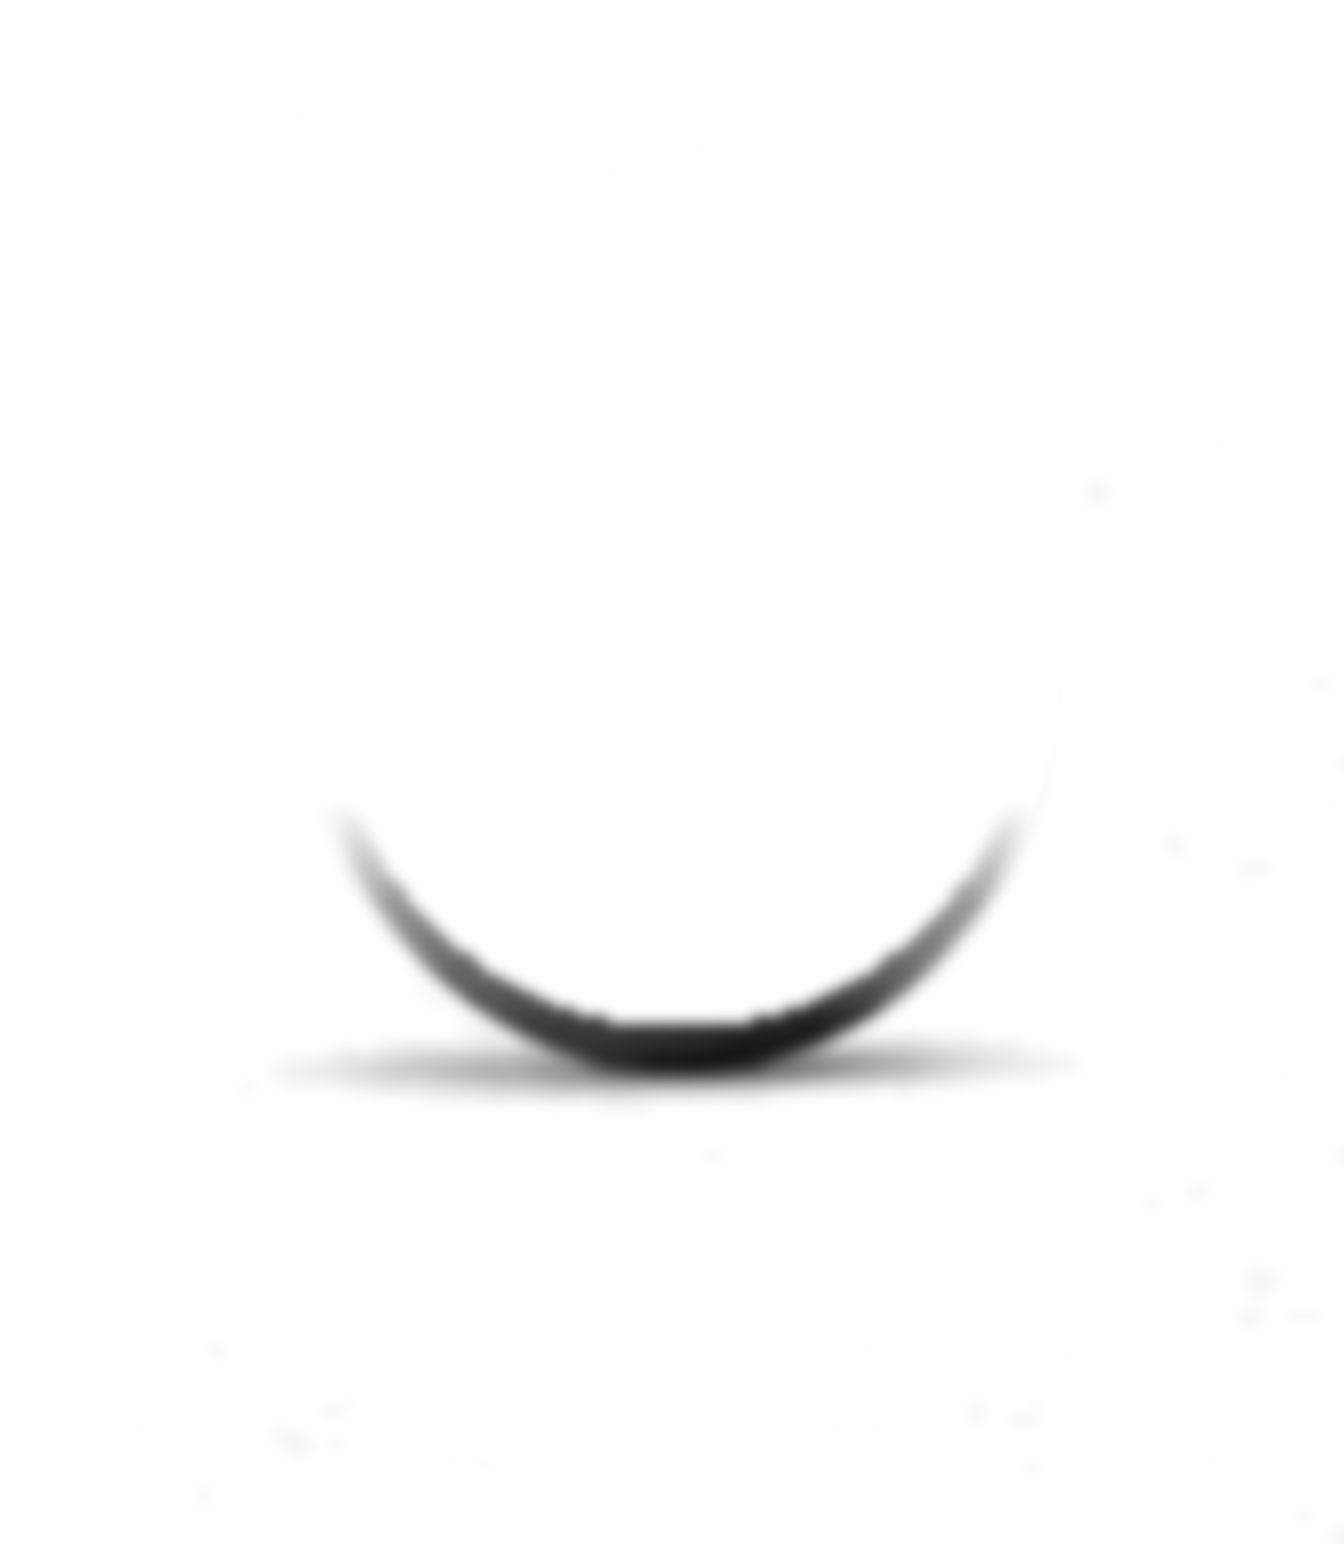
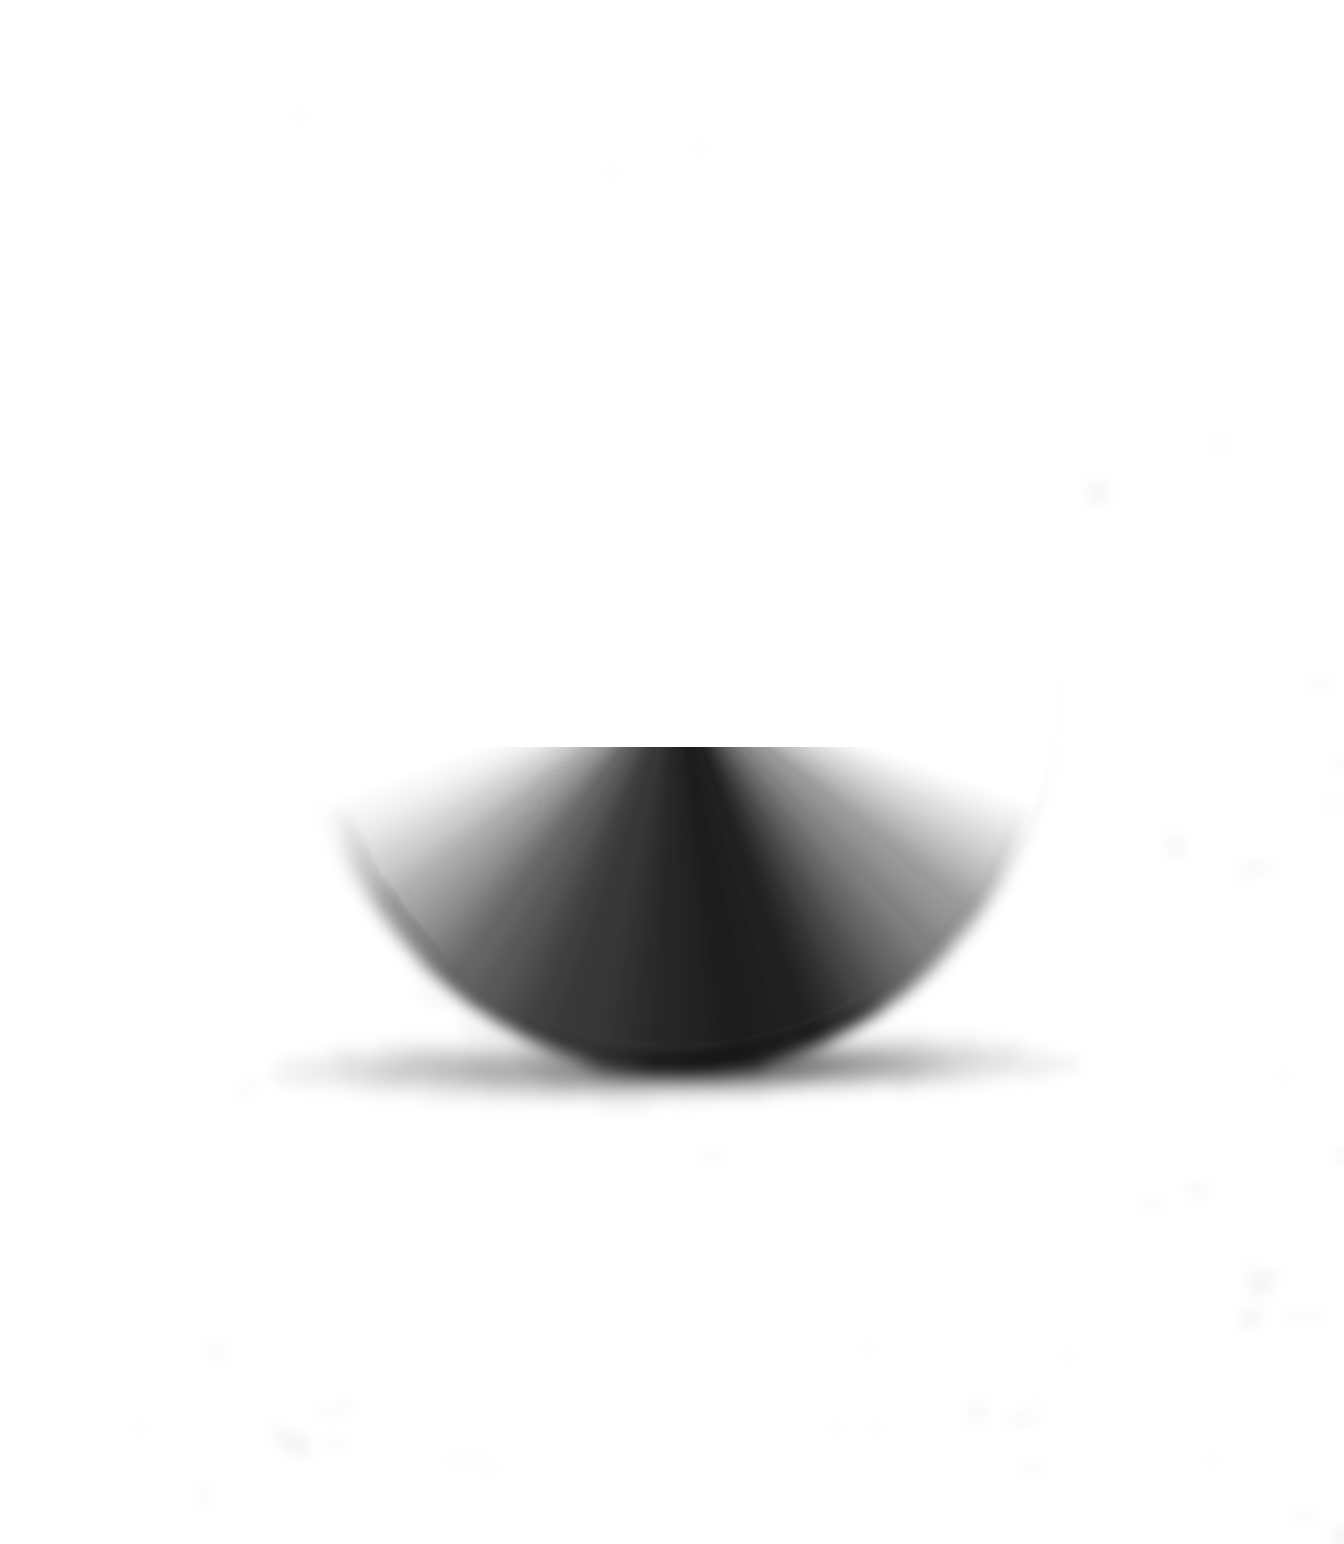
Click 5: the Modulor is built with copper's landings; the ruler is gone
Three lobes and 110 px after the first landing (1 : 250), five and 150 px after the second (1 : 500),
all eight and 240 px as the counter runs 500 -> 1000. Copper's swell passes it; it does not follow.
The label sits 24 px right of the spine at the highest mark. At click 10 it drops into the evidence field
and becomes 11,002 kt CO2e. The ground under the spine stretches into Act 3's evidence line.
Horizontal rail, end bars and graduations removed. Shadow filled under the sphere so a squash shows no paper.
Reset tested with keypresses: three runs, after R and after a refresh.

Changed region(s): [[0.2812, 0.4663, 0.75, 0.6839]]

diff --git a/act1/act1.html b/act1/act1.html
@@ -80,7 +80,7 @@
   <svg id="over" width="1920" height="1080" style="position:absolute;left:0;top:0;z-index:1;mix-blend-mode:multiply">
     <rect id="raciShadow" x="1000" y="120" width="560" height="660" fill="#0F0F11" opacity="0" filter="url(#soft2)"/>
     <defs><filter id="soft2" x="-20%" y="-20%" width="140%" height="140%"><feGaussianBlur stdDeviation="40"/></filter></defs>
-    <g id="modulor" opacity="0"></g><g id="dim" opacity="0" stroke="#b8783e" stroke-width="1.4" style="filter:drop-shadow(0 0 3px rgba(207,145,77,.35))"><line id="dimLine" y1="0" y2="0"/><line id="dimT1"/><line id="dimT2"/><g id="ticks"></g><g id="cursor"><circle r="4.5" fill="none"/><line x1="-13" y1="0" x2="13" y2="0"/></g></g>
+    <g id="modulor" opacity="0"></g><g id="dim" opacity="0" stroke="#b8783e" stroke-width="1.4" style="filter:drop-shadow(0 0 3px rgba(207,145,77,.35))"><line id="dimLine" y1="0" y2="0"/><g id="ticks"></g><g id="cursor"><circle r="4.5" fill="none"/><line x1="-13" y1="0" x2="13" y2="0"/></g></g>
     <line id="dropLine" x1="1395" x2="1395" stroke="#365F7C" stroke-width="1" stroke-dasharray="6 6" opacity="0"/>
   </svg>
   <div class="scale" id="s250">1 : 250</div><div class="scale" id="s500">1 : 500</div><div class="scale" id="s1000">1 : 1000</div>
@@ -346,34 +346,41 @@ const squash = (t, t0) => {                        // anticipation, landing squa
 // Click 5: copper takes the centre of the left half, then three jumps; it grows only after each landing
 const GROUND_C = 670, CX5 = 530, J = [1.6, 3.7, 6.4], H5 = [35, 50, 65], R5 = [38, 48, 62, 80], R_INF = 150;   // ends about 4 times its first size
 const T_COUNT = J[2] + 1.0, T_INF = T_COUNT + 1.25 + 0.5;   // the counter runs after the last landing; it locks, holds half a second, then the swell
-const STEPS = [250, 251, 253, 258, 270, 310, 365, 420, 500, 590, 680, 760, 850, 930, 1000];
+const STEPS = [500, 501, 503, 508, 520, 560, 615, 670, 740, 810, 870, 920, 960, 985, 1000];   // from 1 : 500, where the second landing left it
 const STEP_T = [0, 0.12, 0.23, 0.35, 0.47, 0.57, 0.66, 0.74, 0.8, 0.9, 0.98, 1.05, 1.11, 1.16, 1.25];   // readable, then accelerating, then runaway
-// The Modulor: a human-proportion scale on its own spine, standing on copper's ground line. Both series
-// (red 63 ... 1829, blue 78 ... 1397) grow by the golden ratio from the ground. The system is always a little taller
-// than copper, until the swell: then copper outgrows the human measure that was supposed to contain it.
+// The Modulor: a human-proportion scale on its own spine, standing on copper's ground. Both series
+// (red 63 ... 1829, blue 78 ... 1397) grow by the golden ratio from the ground; the numbers set the proportions and are never shown.
+// It is built with copper's landings and always stays a little taller than copper: three lobes and 110 px after the first,
+// five lobes and 150 px after the second, all eight and 240 px as the counter runs. Then copper swells past it; it does not follow.
 const MOD_R = [0, 63, 102, 165, 267, 432, 698, 1130, 1829], MOD_B = [78, 126, 204, 330, 534, 863, 1397];
 const SPX = 730;                                          // 50 px clear of copper's final edge; far short of the axis
+function modState(t) {                                    // V: the highest Modulor value built so far; H: its height on screen
+  const r1 = E2(t, J[0] + 1.0, 0.9), s2 = E2(t, J[1] + 1.0, 0.7), c = t - T_COUNT, p = c < 0 ? 0 : clamp(c / 1.25), pe = p * p * (3 - 2 * p);
+  if (s2 <= 0 && pe <= 0) return { V: 165 * r1, H: 110 * r1, pe };
+  const L = Math.log, V = Math.exp(L(165) + s2 * (L(432) - L(165)) + pe * (L(1829) - L(432)));
+  return { V, H: 110 + 40 * s2 + 90 * pe, pe };
+}
 function modulor(t, y) {
-  const c = t - T_COUNT, p = c < 0 ? 0 : clamp(c / 1.25), pe = p * p * (3 - 2 * p);
-  const H = 110 + 40 * E2(t, J[1] + 1.0, 0.5) + 90 * pe;  // height of the 1829 mark: 110, then 150, then 240 as the counter races
-  const f = H / 1829, Y = (v) => y - v * f;
+  const { V, H } = modState(t);
+  if (V <= 0) { $("modulor").innerHTML = ""; return y; }
+  const f = H / V, Y = (v) => y - Math.min(v, V) * f;
   let air = 0; J.forEach((j) => { const u = (t - j - 0.25) / 0.6; if (u > 0 && u < 1) air = Math.sin(Math.PI * u); });
-  const breathe = 1 + 0.14 * air;                         // the lobes widen while copper is in the air, and settle when it lands
-  const sub = E2(t, J[1] + 1.0, 0.6);                     // the second series and the long arcs come with the second landing
-  let h = `<line x1="${SPX}" x2="${SPX}" y1="${y}" y2="${y - (H + 12) * E2(t, J[0] + 1.0, 0.9)}" stroke="#8a5a30" stroke-width="1.3"/>`;   // the spine rises with its lobes
-  for (let k = 1; k < MOD_R.length; k++) {                // lobes: gold on copper's side, a faint blue-grey ghost on the other
-    const a = Y(MOD_R[k - 1]), b = Y(MOD_R[k]), w = (a - b) * 0.3 * breathe, m = (a + b) / 2, op = E2(t, J[0] + 1.0 + k * 0.08, 0.3);
-    h += `<path d="M${SPX} ${a} Q ${SPX - 2 * w} ${m} ${SPX} ${b} Z" fill="#C58A4B" fill-opacity="${0.3 * op}" stroke="#b8783e" stroke-width="0.8" stroke-opacity="${0.8 * op}"/>`;
-    h += `<path d="M${SPX} ${a} Q ${SPX + 2 * w} ${m} ${SPX} ${b} Z" fill="#6f8594" fill-opacity="${0.12 * op}" stroke="#6f8594" stroke-width="0.6" stroke-opacity="${0.4 * op}"/>`;
-    h += `<line x1="${SPX - 6 - (k % 2) * 6}" x2="${SPX}" y1="${b}" y2="${b}" stroke="#8a5a30" stroke-width="${k % 2 ? 1.2 : 0.8}" opacity="${op}"/>`;
+  const breathe = 1 + 0.12 * air;                         // the lobes widen a little while copper is in the air, and settle when it lands
+  let h = `<line x1="${SPX}" x2="${SPX}" y1="${y}" y2="${y - H - 12 * Math.min(1, V / 165)}" stroke="#8a5a30" stroke-width="1.3"/>`;
+  for (let k = 1; k < MOD_R.length && MOD_R[k - 1] < V; k++) {   // lobes grow upward as they are built: gold on copper's side, a faint blue-grey ghost on the other
+    const a = Y(MOD_R[k - 1]), b = Y(MOD_R[k]), w = (a - b) * 0.3 * breathe, m = (a + b) / 2;
+    h += `<path d="M${SPX} ${a} Q ${SPX - 2 * w} ${m} ${SPX} ${b} Z" fill="#C58A4B" fill-opacity="0.3" stroke="#b8783e" stroke-width="0.8" stroke-opacity="0.8"/>`;
+    h += `<path d="M${SPX} ${a} Q ${SPX + 2 * w} ${m} ${SPX} ${b} Z" fill="#6f8594" fill-opacity="0.12" stroke="#6f8594" stroke-width="0.6" stroke-opacity="0.4"/>`;
+    if (MOD_R[k] <= V) h += `<line x1="${SPX - 6 - (k % 2) * 6}" x2="${SPX}" y1="${b}" y2="${b}" stroke="#8a5a30" stroke-width="${k % 2 ? 1.2 : 0.8}"/>`;
   }
-  MOD_B.forEach((v) => { h += `<line x1="${SPX}" x2="${SPX + 8}" y1="${Y(v)}" y2="${Y(v)}" stroke="#6f8594" stroke-width="0.8" opacity="${0.7 * sub}"/>`; });
-  [[3, -1], [4, 1], [5, -1]].forEach(([k, side]) => {      // three long arcs, alternating sides
+  MOD_B.forEach((v) => { if (v <= V) h += `<line x1="${SPX}" x2="${SPX + 8}" y1="${Y(v)}" y2="${Y(v)}" stroke="#6f8594" stroke-width="0.8" opacity="0.7"/>`; });
+  [[3, -1], [4, 1], [5, -1]].forEach(([k, side]) => {      // three long arcs, alternating sides, once both their ends exist
+    if (MOD_R[k + 2] > V) return;
     const a = Y(MOD_R[k]), b = Y(MOD_R[k + 2]);
-    h += `<path d="M${SPX} ${a} Q ${SPX + side * (a - b) * 0.45 * breathe} ${(a + b) / 2} ${SPX} ${b}" fill="none" stroke="${side < 0 ? "#b8783e" : "#6f8594"}" stroke-width="0.8" opacity="${0.5 * sub}"/>`; });
+    h += `<path d="M${SPX} ${a} Q ${SPX + side * (a - b) * 0.45 * breathe} ${(a + b) / 2} ${SPX} ${b}" fill="none" stroke="${side < 0 ? "#b8783e" : "#6f8594"}" stroke-width="0.8" opacity="0.5"/>`; });
   $("modulor").innerHTML = h;
-  $("modulor").setAttribute("opacity", E2(t, J[0] + 1.0, 0.5));
-  return y - H * pe;                                      // where the cursor sits: the ground, then climbing with the counter
+  $("modulor").setAttribute("opacity", 1);
+  return y - H;                                           // the cursor and the label sit at the highest mark built so far
 }
 function click5(t) {
   const on = t >= 0;
@@ -387,27 +394,26 @@ function click5(t) {
   J.forEach((j, i) => { dy += jumpY(t, j, H5[i]); const q = squash(t, j); if (t >= j && t < j + 1.25) sq = q; });
   if (t >= T_INF - 0.25 && t < T_INF) sq = [1.02, 0.97];                                        // it gathers itself
   place(copper, x, (mv < 1 ? HOME_C[1] + (GROUND_C - R5[0] - HOME_C[1]) * mv : GROUND_C - r) + dy, r, sq[0], sq[1]);
-  // the measurement rail: from copper's edge to the axis, never across it
-  const y = GROUND_C + 26, edge = x + Math.min(r, R5[3]) , show = E2(t, J[0] + 1.0, 0.5);
-  const railL = AXX - (AXX - edge) * E2(t, J[0] + 1.0, 0.6);
-  $("dimLine").setAttribute("x1", railL); $("dimLine").setAttribute("x2", AXX - 3); $("dimLine").setAttribute("y1", y); $("dimLine").setAttribute("y2", y);
-  for (const [id, X] of [["dimT1", AXX - 3], ["dimT2", railL]]) { const e = $(id); e.setAttribute("x1", X); e.setAttribute("x2", X); e.setAttribute("y1", y - 14); e.setAttribute("y2", y + 14); }
+  // the ground under the spine; the Modulor above it; one label to its right, at the highest mark
+  const y = GROUND_C + 26, show = E2(t, J[0] + 1.0, 0.5);
+  $("dimLine").setAttribute("x1", SPX - 30); $("dimLine").setAttribute("x2", SPX + 30); $("dimLine").setAttribute("y1", y); $("dimLine").setAttribute("y2", y);
   $("dim").setAttribute("opacity", 0.9 * show);
   $("ticks").innerHTML = "";
-  const pos = modulor(t, y);
-  // the counter: 1 : 250 after the first landing; from the second landing it runs away to 1 : 1000, then holds, immaculate
+  const top = modulor(t, y);
+  // the label: 1 : 250 after the first landing, 1 : 500 after the second; from the third it runs away to 1 : 1000, then holds, immaculate
   const c = t - T_COUNT;
-  let n = 250; STEP_T.forEach((st, k) => { if (c >= st) n = STEPS[k]; });
+  let n = t < J[1] + 1.2 ? 250 : 500; if (c >= 0) STEP_T.forEach((st, k) => { if (c >= st) n = STEPS[k]; });
   const lab = $("s1000"); lab.textContent = `1 : ${n}`;
-  lab.style.opacity = E2(t, J[0] + 1.2, 0.5);
+  lab.style.opacity = E2(t, J[0] + 1.4, 0.5);
   const lock = T_COUNT + 1.25;
   const g = 0.8 + 0.18 * clamp(c / 1.25) + 0.12 * (E2(t, lock, 0.15) - E2(t, lock + 0.4, 0.4)) + 0.1 * (E2(t, T_INF, 0.3) - E2(t, T_INF + 0.9, 0.8));
   lab.style.textShadow = `0 1px 0 rgba(57,35,22,.28), 0 0 3px rgba(255,214,137,${(0.75 * g).toFixed(3)}), 0 0 9px rgba(196,125,55,${(0.42 * g).toFixed(3)}), 0 0 18px rgba(177,100,35,${(0.2 * g).toFixed(3)})`;
-  lab.style.left = CX5 + 90 + "px"; lab.style.top = y + 44 + "px";
-  // the cursor climbs the spine with the counter, then presses against the top mark until the swell is over
+  lab.style.left = LAB_X + "px"; lab.style.top = top - 19 + "px";
+  // the cursor rides the highest mark, and presses against it until the swell is over
   const jitter = c > 1.25 && t < T_INF + 0.7 ? 1.4 * Math.sin(t * 47) : 0;
-  $("cursor").setAttribute("transform", `translate(${SPX} ${pos + jitter})`); $("cursor").setAttribute("opacity", show);
+  $("cursor").setAttribute("transform", `translate(${SPX} ${top + jitter})`); $("cursor").setAttribute("opacity", show);
 }
+const LAB_X = SPX + 24;                                   // the scale label, 24 px right of the spine
 // Click 6: twelve governance words fall and settle around blue; blue loses ground in two stages
 const FLOOR = 770;
 // [word, voice, size, x, baseline, rotation, start, fall duration, slide on landing, opacity]
@@ -520,12 +526,13 @@ function click9(t) {
   ev.style.display = on ? "" : "none";
   for (const id of ["cnum", "csrc", "cdesc"]) $(id).style.opacity = 0;
   srcs.forEach((q) => (q.l.style.opacity = 0));
-  if (!on) { for (const id of ["dimT1", "dimT2", "ticks", "cursor", "modulor"]) $(id).style.opacity = ""; return; }   // a reset replays click 5 with its instrument
+  if (!on) { for (const id of ["ticks", "cursor", "modulor"]) $(id).style.opacity = ""; return; }   // a reset replays click 5 with its instrument
   const E = (a, d) => smooth((t - a) / d);
   const rec = 1 - 0.93 * E(0.4, 1.8);                    // the RACI and the words recede to paper ghosts
   gws.forEach((d) => (d.style.opacity = rec * WORDS[gws.indexOf(d)][9])); $("raci").style.opacity = rec;
   $("s250").style.opacity = $("s500").style.opacity = 0;
-  $("dimT1").style.opacity = $("dimT2").style.opacity = 1 - E(1.2, 0.8);   // ticks become provenance nodes
+  const st = E(0.8, 1.2);                                  // the ground under the spine stretches into the evidence line; nodes appear on it
+  $("dimLine").setAttribute("x1", SPX - 30 + (REPORT_END - SPX + 30) * st); $("dimLine").setAttribute("x2", SPX + 30 + (AXX - 3 - SPX - 30) * st);
   $("ticks").style.opacity = 1 - E(1.2, 0.8); $("cursor").style.opacity = 1 - E(1.2, 0.8); $("modulor").style.opacity = 1 - E(0.6, 1.2);
   provNodes.forEach((n, i) => n.setAttribute("opacity", E(1.8 + i * 0.2, 0.5)));
   drawTo(blueTrace, bLen, 0); convNode.setAttribute("opacity", 0);
@@ -538,10 +545,13 @@ function click9(t) {
 function click10(t) {
   if (t < 0) return;
   const E = (a, d) => smooth((t - a) / d);
-  const nx = CX5 + 90;                                     // where the scale was: off copper's centre, so it reads as the rail's reading, not a price tag
-  $("cdesc").style.left = nx + "px"; $("cdesc").style.top = EVY + 18 + "px"; $("cdesc").style.opacity = E(0.2, 0.8);
-  $("s1000").style.opacity = 1 - E(0.8, 0.6);
-  $("cnum").style.left = nx + "px"; $("cnum").style.top = EVY + 44 + "px"; $("cnum").style.opacity = E(1.1, 0.9);
+  const nx = CX5 + 90;                                     // the evidence field: off copper's centre, on the evidence line, clear of the axis
+  // the locked 1 : 1000 slides down from the spine into the evidence field and becomes the figure there: one number, seen moving
+  const fromY = EVY - 240 - 19, toY = EVY + 44;             // down first, clear of copper; then left, once below it
+  $("s1000").style.left = LAB_X + (nx - LAB_X) * E(0.7, 0.6) + "px"; $("s1000").style.top = fromY + (toY - fromY) * E(0.2, 0.7) + "px";
+  $("s1000").style.opacity = 1 - E(1.0, 0.5);
+  $("cnum").style.left = nx + "px"; $("cnum").style.top = toY + "px"; $("cnum").style.opacity = E(1.0, 0.8);
+  $("cdesc").style.left = nx + "px"; $("cdesc").style.top = EVY + 18 + "px"; $("cdesc").style.opacity = E(1.3, 0.8);
   $("csrc").style.left = nx + "px"; $("csrc").style.top = EVY + 100 + "px"; $("csrc").style.opacity = 0.9 * E(1.9, 1.0);
   drawTo(blueTrace, bLen, E(1.1, 1.6));                   // the trace begins at blue
   convNode.setAttribute("opacity", E(2.3, 0.4));

diff --git a/tools/make_copper.py b/tools/make_copper.py
@@ -43,5 +43,9 @@ if len(sys.argv) > 4:
     ring = (1 - np.clip((r - 47.5) / 3.0, 0, 1)) * (1 - np.clip((dy / K - 0.35 * R0) / (0.3 * R0), 0, 1))
     base = np.median(sh[: int(20 * K)].reshape(-1, 3), axis=0)   # the sprite's own level where there is no shadow (it is not pure white)
     sh = sh + (base - sh) * ring[..., None]
+    # under the sphere's lower half, extend the contact crescent inward, so a squash never opens a gap of paper
+    r2 = np.maximum(np.hypot(dx, dy), 1e-6); inner = (r2 < 46 * K) & (dy > 0.2 * R)
+    ex, ey = np.clip(C + dx / r2 * 46.5 * K, 0, W - 1).astype(int), np.clip(C + dy / r2 * 46.5 * K, 0, H - 1).astype(int)
+    sh[inner] = np.minimum(sh[inner], sh[ey[inner], ex[inner]])
     Image.fromarray(sh.clip(0, 255).round().astype(np.uint8)).save(sys.argv[4])
     print("saved", sys.argv[4])
